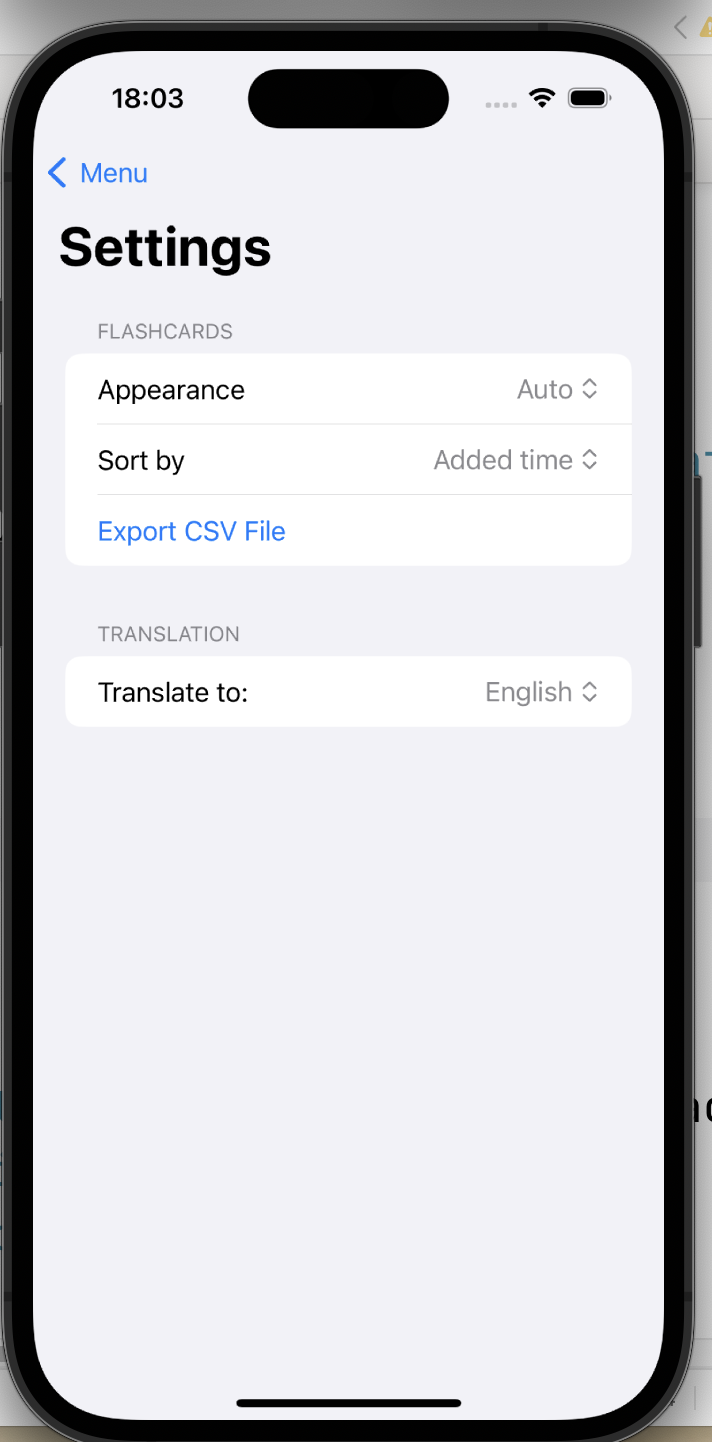
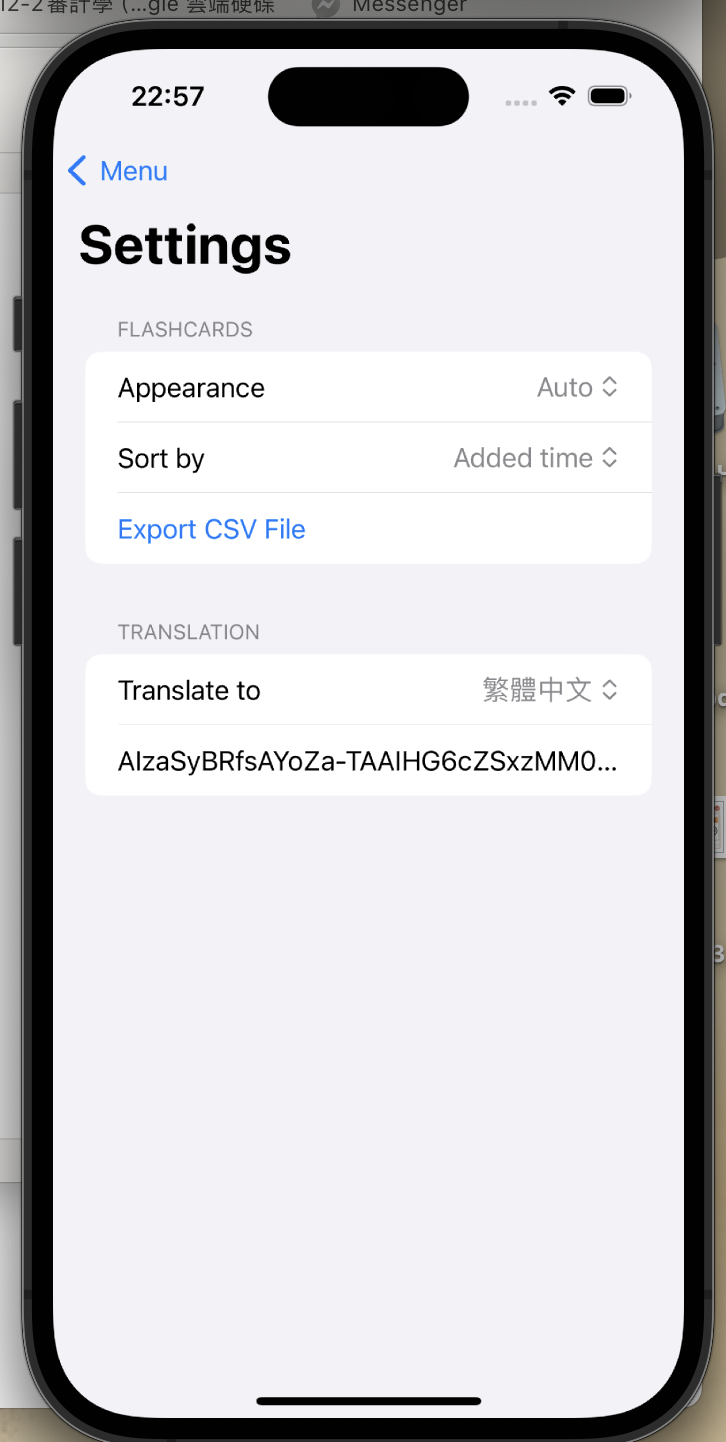
update

diff --git a/README.md b/README.md
@@ -1,11 +1,16 @@
-## Anki あんき
+# Anki あんき
 ![icon](./icon.png)
+—
+## Features
 - Flash cards for studying.
-- Quiz
-- Dark Mode
-- Export CSV file.
+- Quiz Mode
+- Light & Dark Mode
+- Export CSV file
+- AI translation. **powered by Gemini**
 
 # Screenshots
-![screenshot1](./1.PNG)
-![screenshot2](./2.PNG)
-![screenshot3](./3.PNG)
+![screenshot](light_main.png)
+![screenshot](flashcard.png)
+![screenshot](translate.png)
+![screenshot](translate2.png)
+![screenshot](setting.png)
